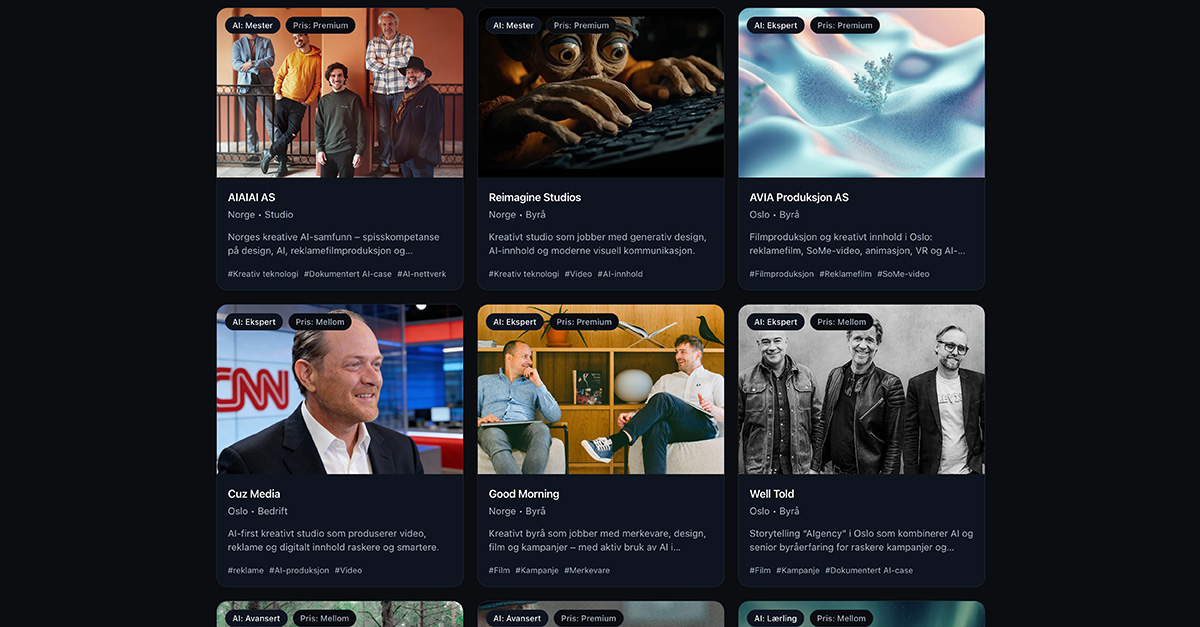
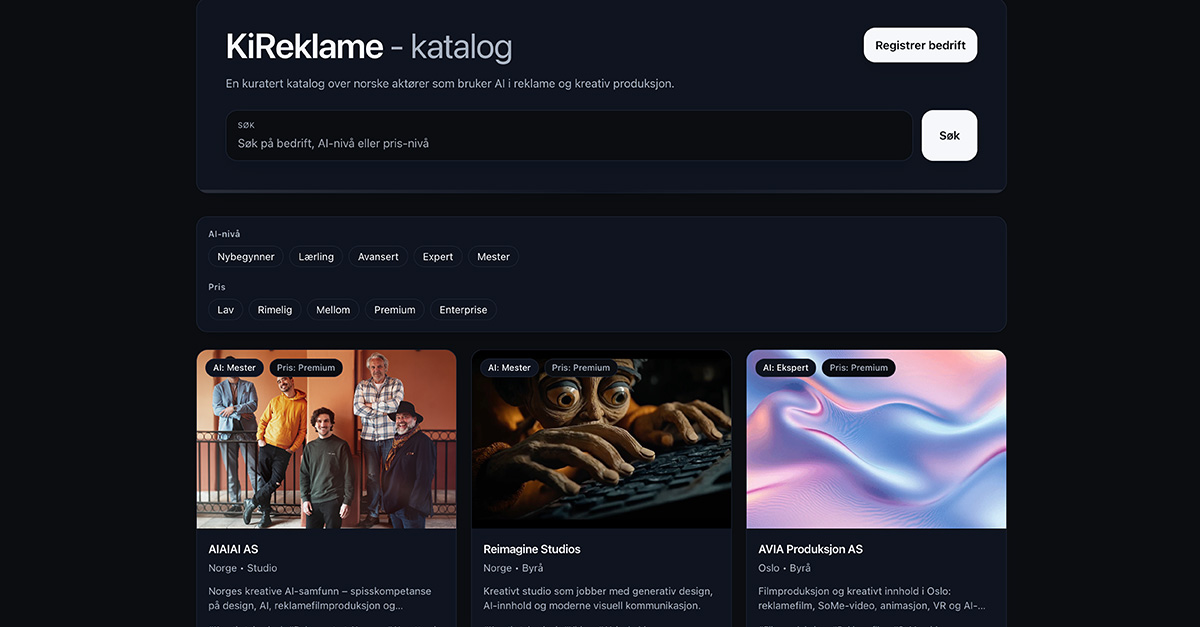
Normalize price levels and company types across UI, utils and data

diff --git a/src/app/admin/submit/page.tsx b/src/app/admin/submit/page.tsx
@@ -50,8 +50,8 @@ export default function SubmitPage() {
             <span className="text-sm font-medium">Type</span>
             <select name="company_type" className={inputBase} defaultValue="byrå">
               <option value="byrå">Byrå</option>
-              <option value="bedrift">Bedrift</option>
               <option value="studio">Studio</option>
+              <option value="miljø">Miljø</option>
               <option value="frilans">Frilans</option>
               <option value="ub/sb">UB/SB</option>
             </select>
@@ -75,11 +75,11 @@ export default function SubmitPage() {
           <label className="grid gap-1">
             <span className="text-sm font-medium">AI-nivå</span>
             <select name="ai_level" className={inputBase} defaultValue="3">
-              <option value="1">Nybegynner</option>
-              <option value="2">Lærling</option>
-              <option value="3">Avansert</option>
-              <option value="4">Expert</option>
-              <option value="5">Mester</option>
+              <option value="0">Student</option>
+              <option value="1">Lærling</option>
+              <option value="2">Avansert</option>
+              <option value="3">Expert</option>
+              <option value="4">Mester</option>
             </select>
           </label>
 

diff --git a/src/lib/utils.ts b/src/lib/utils.ts
@@ -69,20 +69,20 @@ export function buildUrlWithParams(
 }
 
 export function aiLevelLabel(level: number) {
-  if (level <= 1) return "Nybegynner";
-  if (level === 2) return "Lærling";
-  if (level === 3) return "Avansert";
-  if (level === 4) return "Ekspert";
-  return "Mester"; // 5+
+  if (level <= 0) return "Student";
+  if (level === 1) return "Lærling";
+  if (level === 2) return "Avansert";
+  if (level === 3) return "Ekspert";
+  return "Mester"; // 4+
 }
 
 
 export function priceLevelLabel(level: number) {
-  if (level <= 1) return "Lav";
-  if (level === 2) return "Rimelig";
-  if (level === 3) return "Mellom";
-  if (level === 4) return "Premium";
-  return "Enterprise"; // 5+
+  if (level <= 0) return "Lav";
+  if (level === 1) return "Rimelig";
+  if (level === 2) return "Mellom";
+  if (level === 3) return "Premium";
+  return "Enterprise"; // 4+
 }
 
 
@@ -90,8 +90,8 @@ export function typeLabel(type: string) {
   const key = String(type ?? "").trim().toLowerCase();
   const map: Record<string, string> = {
     "byrå": "Byrå",
-    "bedrift": "Bedrift",
     "studio": "Studio",
+    "miljø": "Miljø",
     "frilans": "Frilans",
     "ub/sb": "UB/SB",
   };

diff --git a/src/app/_components/RegisterCompanyForm.tsx b/src/app/_components/RegisterCompanyForm.tsx
@@ -7,20 +7,20 @@ import { createBrowserClient } from "@supabase/ssr";
 
 
 const AI_LEVELS = [
-  { value: "0", label: "0 – Elev" },
+  { value: "0", label: "0 – Student" },
   { value: "1", label: "1 – Lærling" },
-  { value: "2", label: "2 – Proff" },
+  { value: "2", label: "2 – Avansert" },
   { value: "3", label: "3 – Expert" },
   { value: "4", label: "4 – Mester" },
-  { value: "5", label: "5 – Guru" },
+  
 ];
 
 const PRICE_LEVELS = [
   { value: "0", label: "0 – Lav" },
-  { value: "1", label: "1 – Under middels" },
-  { value: "2", label: "2 – Middels" },
-  { value: "3", label: "3 – Over middels" },
-  { value: "4", label: "4 – Premium" },
+  { value: "1", label: "1 – Rimelig" },
+  { value: "2", label: "2 – Mellom" },
+  { value: "3", label: "3 – Premium" },
+  { value: "4", label: "4 – Enterprise" },
 ];
 
 export default function RegisterCompanyForm() {

diff --git a/src/app/me/company/[id]/page.tsx b/src/app/me/company/[id]/page.tsx
@@ -526,10 +526,10 @@ export default async function EditCompanyPage({
             defaultValue={(company as any).company_type ?? "byrå"}
             className="w-full rounded-xl border border-[rgb(var(--border))] bg-[rgb(var(--card))] px-4 py-2"
           >
-            <option value="byrå">Byrå</option>
-            <option value="Bedrift">Bedrift</option>
+            <option value="Byrå">Byrå</option>
             <option value="Studio">Studio</option>
-            <option value="frilans">Frilans</option>
+            <option value="Miljø">Miljø</option>
+            <option value="Frilans">Frilans</option>
             <option value="UB/SB">UB/SB</option>
           </select>
         </div>

diff --git a/src/app/_components/FilterChips.tsx b/src/app/_components/FilterChips.tsx
@@ -13,11 +13,11 @@ export default function FilterChips({ facets, params }: Props) {
     {
       label: "AI-nivå",
       options: [
-        { k: "ai", v: "1", label: "Nybegynner" },
-        { k: "ai", v: "2", label: "Lærling" },
-        { k: "ai", v: "3", label: "Avansert" },
-        { k: "ai", v: "4", label: "Expert" },
-        { k: "ai", v: "5", label: "Mester" },
+        { k: "ai", v: "0", label: "Student" },
+        { k: "ai", v: "1", label: "Lærling" },
+        { k: "ai", v: "2", label: "Avansert" },
+        { k: "ai", v: "3", label: "Expert" },
+        { k: "ai", v: "4", label: "Mester" },
       ],
     },
     {

diff --git a/src/app/admin/companies/[id]/page.tsx b/src/app/admin/companies/[id]/page.tsx
@@ -346,8 +346,8 @@ export default async function AdminCompanyEditPage({
             className="w-full rounded-xl border border-[rgb(var(--border))] bg-[rgb(var(--card))] px-4 py-2"
           >
             <option value="byrå">Byrå</option>
-            <option value="Bedrift">Bedrift</option>
-            <option value="Studio">Studio</option>
+            <option value="Bedrift">Studio</option>
+            <option value="Miljø">Miljø</option>
             <option value="frilans">Frilans</option>
             <option value="UB/SB">UB/SB</option>
           </select>

diff --git a/src/app/layout.tsx b/src/app/layout.tsx
@@ -8,7 +8,7 @@ import { siteMeta } from "@/lib/seo";
 export const metadata: Metadata = siteMeta({
   title: "KiReklame.no – Norsk katalog for KI i reklame og kreativ produksjon",
   description:
-    "Finn norske byråer, studioer og frilansmiljøer som bruker KI/AI i kommersielt kreativt arbeid. Filtrer på sted, tjenester og AI-nivå.",
+    "Finn norske byråer, studioer og miljøer som bruker KI/AI i kommersielt kreativt arbeid. Filtrer på sted, tjenester og AI-nivå.",
   path: "/"
 });
 

diff --git a/src/lib/supabase/server.ts b/src/lib/supabase/server.ts
@@ -176,8 +176,8 @@ export async function getCompanies(
 
   const types = [
     { value: "byrå", label: "Byrå" },
-    { value: "Bedrift", label: "Bedrift" },
     { value: "Studio", label: "Studio" },
+    { value: "Miljø", label: "Miljø" },
     { value: "frilans", label: "Frilans" },
     { value: "UB/SB", label: "UB/SB" },
   ];
